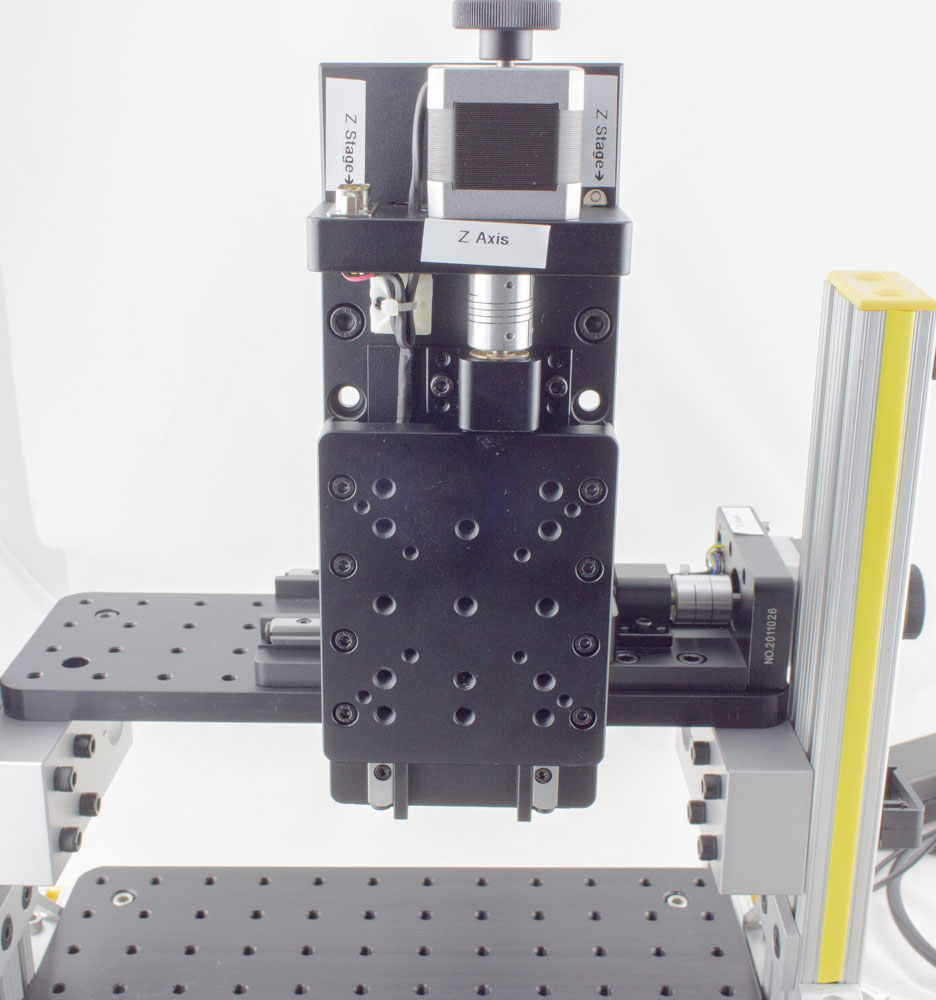
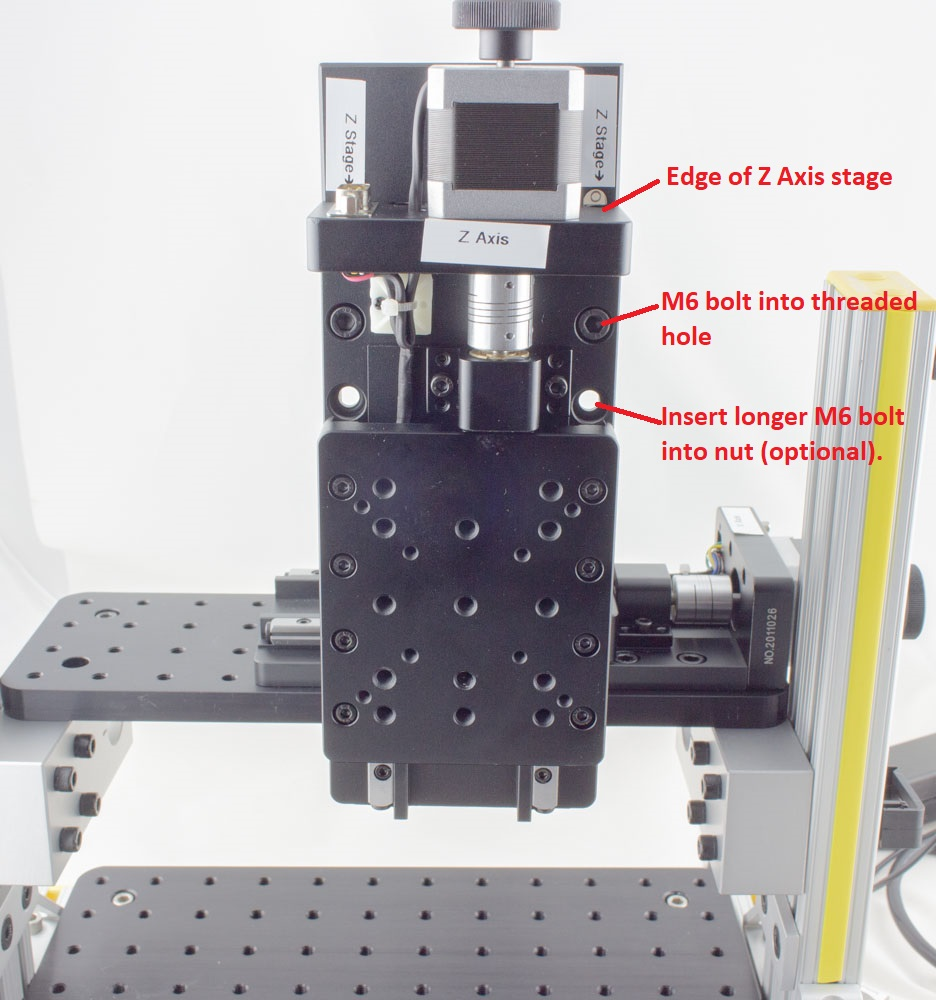
More photos

diff --git a/stages/medres-chipshover/Rev0Instructions.md b/stages/medres-chipshover/Rev0Instructions.md
@@ -2,6 +2,46 @@
 
 ## Stage Assembly & Setup
 
+## Parts
+
+**Box 1: Frame with X Axis Stage**
+
+* Frame
+
+**Box 2: Y and Z Axis Stages**
+
+* Y axis stage
+* Y axis stage mounting bolts
+* Z axis stage
+* Z axis stage mounting bolts
+
+**Box 3: ChipShover Controller with Cables**
+
+* ChipShover Controller
+* 24V/5A power supply
+* AC power cord
+* X axis stepper cable (1m)
+* Y axis stepper cable (1m)
+* Z axis stepper cable (1m)
+
+**Box 4: Nut Drivers, Accessories, and Z Plate***
+
+* 5mm ball-end T-Handle driver
+* 3/16" ball-end T-Handle driver
+* 
+
+**Box 4-B: ChipSHOUTER Mounting Plate**
+
+* ChipSHOUTER mounting adapter
+* 4x M6 screws (countersunk)
+* 4mm ball-end hex T-handle driver
+* 4mm ball-end hex key
+
+**Box 5: Extra-Long Drivers**
+* 3/16" ball-end T-Handle driver, XX long
+* 5/8" ball-end T-Handle driver, XX long
+
+
 ### 1. Place Stage Frame on Table
 
 Check the stage frame for any obvious damage. Remove packing material (foam & cardboard).
@@ -11,7 +51,7 @@ Check the stage frame for any obvious damage. Remove packing material (foam & ca
 Mount the Y Axis stage perpendicular to the X axis stage. You will see alignment labels on the
 X-axis stage that should align with the Y-axis stage. Note it will "overhang" the X axis stage to provide sufficient Y axis travel. The steps to perform the mounting are:
 
-1. Using the handwheel, turn the Y axis stage until all **8** bolt-holes are visible underneat the Y axis stage (4 on each side). You will need to extend it almost to it's full limit for this.
+1. Using the handwheel, turn the Y axis stage until all **8** bolt-holes are visible underneath the Y axis stage (4 on each side). You will need to extend it almost to it's full limit for this.
 2. Remove the 3x M6 bolts from the package.
 3. Place the Y axis stage on the X axis stage - use alignment marks to position it, and keep one hand on the stage to avoid dropping it. Note that only **3** of the holes have matching threads.
 	![](rev0/yaxisalignment.jpeg)
@@ -21,13 +61,50 @@ X-axis stage that should align with the Y-axis stage. Note it will "overhang" th
 
 ### 3. Mount Z Plate on Y Axis
 
-1.
+1. Remove the 4x M6 bolts from the bag labelled "Z Plate to Y Axis Mounting Bolts".
+2. Remove the Z plate from the packaging, and place on the Y axis stage.
+3. Align the "Mount Z Plate" arrows, and insert the four bolts.
+	![](rev0/zplatealign.jpeg)
+4. Tighten the bolts - you'll have an ability to later fine-tune this mounting. You will want to make sure there is some clearance at the front of the Z axis mount when the Y axis is at the home position.
+	![](rev0/zplatescrew.jpeg)
 
 ### 4. Mount Z Axis on Z Plate
 
+You will be mounting the Z axis "lower" on the Z plate to provide a reasonable working distance for the ChipSHOUTER. The following photo shows where we will be mating the provided 2x M6 bolts - note we are *not* using the upper slot.
+
+![](rev0/zplatefrontside.jpeg)
+
+1. Remove the 2x M6 bolts labelled "Z Axis to Z Plate Mounting Bolts"
+2. Align the edge of the Z axis with the alignment marks on the Z plate.
+3. Insert the 2x bolts that will mate into the threaded holes on the Z plate:
+	![](rev0/zaxisfront.jpeg)
+4. Optionally use the M6x20 bolts with the M6 locknuts.
+
+HINT: You can adjust the position of the Z axis mounting for your own use, we simply provide a suggested mount location.
+
 ### 5. Add Cable Mounts
 
+You will use the Cable Mounts for routing stepper motor & ChipSHOUTER cables. The suggested uses is as shown here:
+
+To insert them, simply insert into the slot and rotate the cable mounts:
+
+![](rev0/cablemount1.jpg)
+
+To achieve the suggested mount locations, see this figure:
+
+![](rev0/cablemount2.jpg)
+
 ### 6. Connect Stepper Cables
+
+The stepper motor cables are all standard DB-9 straight-through cables. The provided cables are 22AWG cables allowing a more powerful drive, although we have tested with standard 26AWG IDC cables successfully. Thus if you require extensions or replacements, and off the shelf cable should work.
+
+Due to the spacing at the ChipShover controller
+
+The X/Y/Z/ axis cables have been labelled to make setup quicker. To connect them:
+
+1. Connect each cable to the DB9 connector on each stage. The Z axis connector is straight up and the cable should be routed to a cable mount.
+2. Connect the other end of each cable to the ChipShover controller.
+3. Use the provided 1/4" long 4-40 bolts to screw the cables into the ChipShover.
 
 ### 7. Add ChipSHOUTER Mounting Bracket
 
